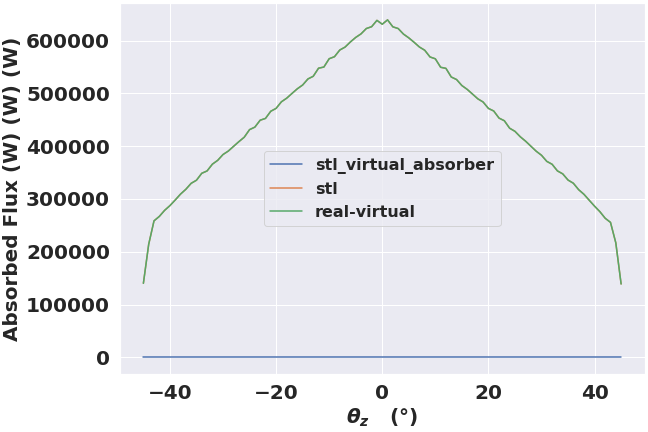
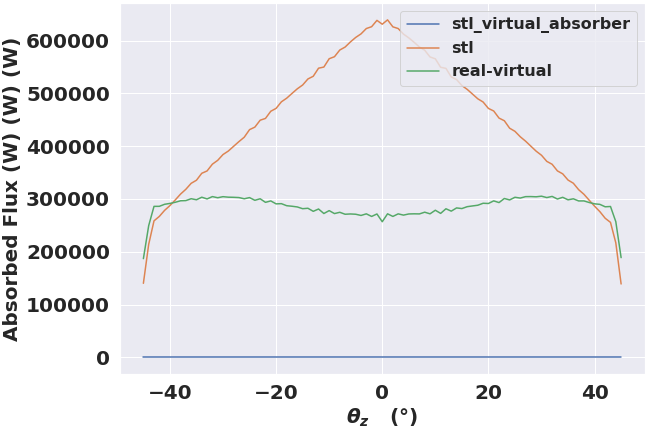
Calculating my_trace absorbed_flux = real-virtual, shadow_losses=0

diff --git a/analysis.py b/analysis.py
@@ -83,11 +83,19 @@ def plot_all_quantities(df):
 
 tr_df_list = [reader.read(tr) for tr in transversal_traces]
 
-my_trace = tr_df_list[0].copy()
+my_trace = tr_df_list[1].copy()
 my_trace.trace_geometry = "real-virtual"
 my_trace.trace_direction = "Transversal"
-def substract_cols(df, col):
-    df[col] = tr_df_list[1][col] - tr_df_list[0][col]
-substract_cols(my_trace, "absorbed_flux")
 
-plot_geometries_quantity([*tr_df_list, my_trace], quantity="efficiency")
+my_trace["potential_flux"] = tr_df_list[1]["potential_flux"] - tr_df_list[0]["missing_losses"] - tr_df_list[0]["shadow_losses"]
+my_trace["shadow_losses"] = 0 #tr_df_list[1]["shadow_losses"] - tr_df_list[0]["shadow_losses"]
+# my_trace["missing_losses"] = 0
+my_trace["absorbed_flux"] = my_trace["potential_flux"]* my_trace["cos_factor"] - my_trace["shadow_losses"] - my_trace["missing_losses"]
+my_trace["efficiency"] = my_trace["absorbed_flux"] / my_trace["potential_flux"]
+reader.calc_intercept_factor(my_trace)
+
+# plot_geometries_quantity([*tr_df_list, my_trace], quantity="intercept_factor")
+# plot_geometries_quantity([*tr_df_list, my_trace], quantity="efficiency")
+
+for i in my_trace.columns:
+    plot_geometries_quantity([*tr_df_list, my_trace], quantity=i)
